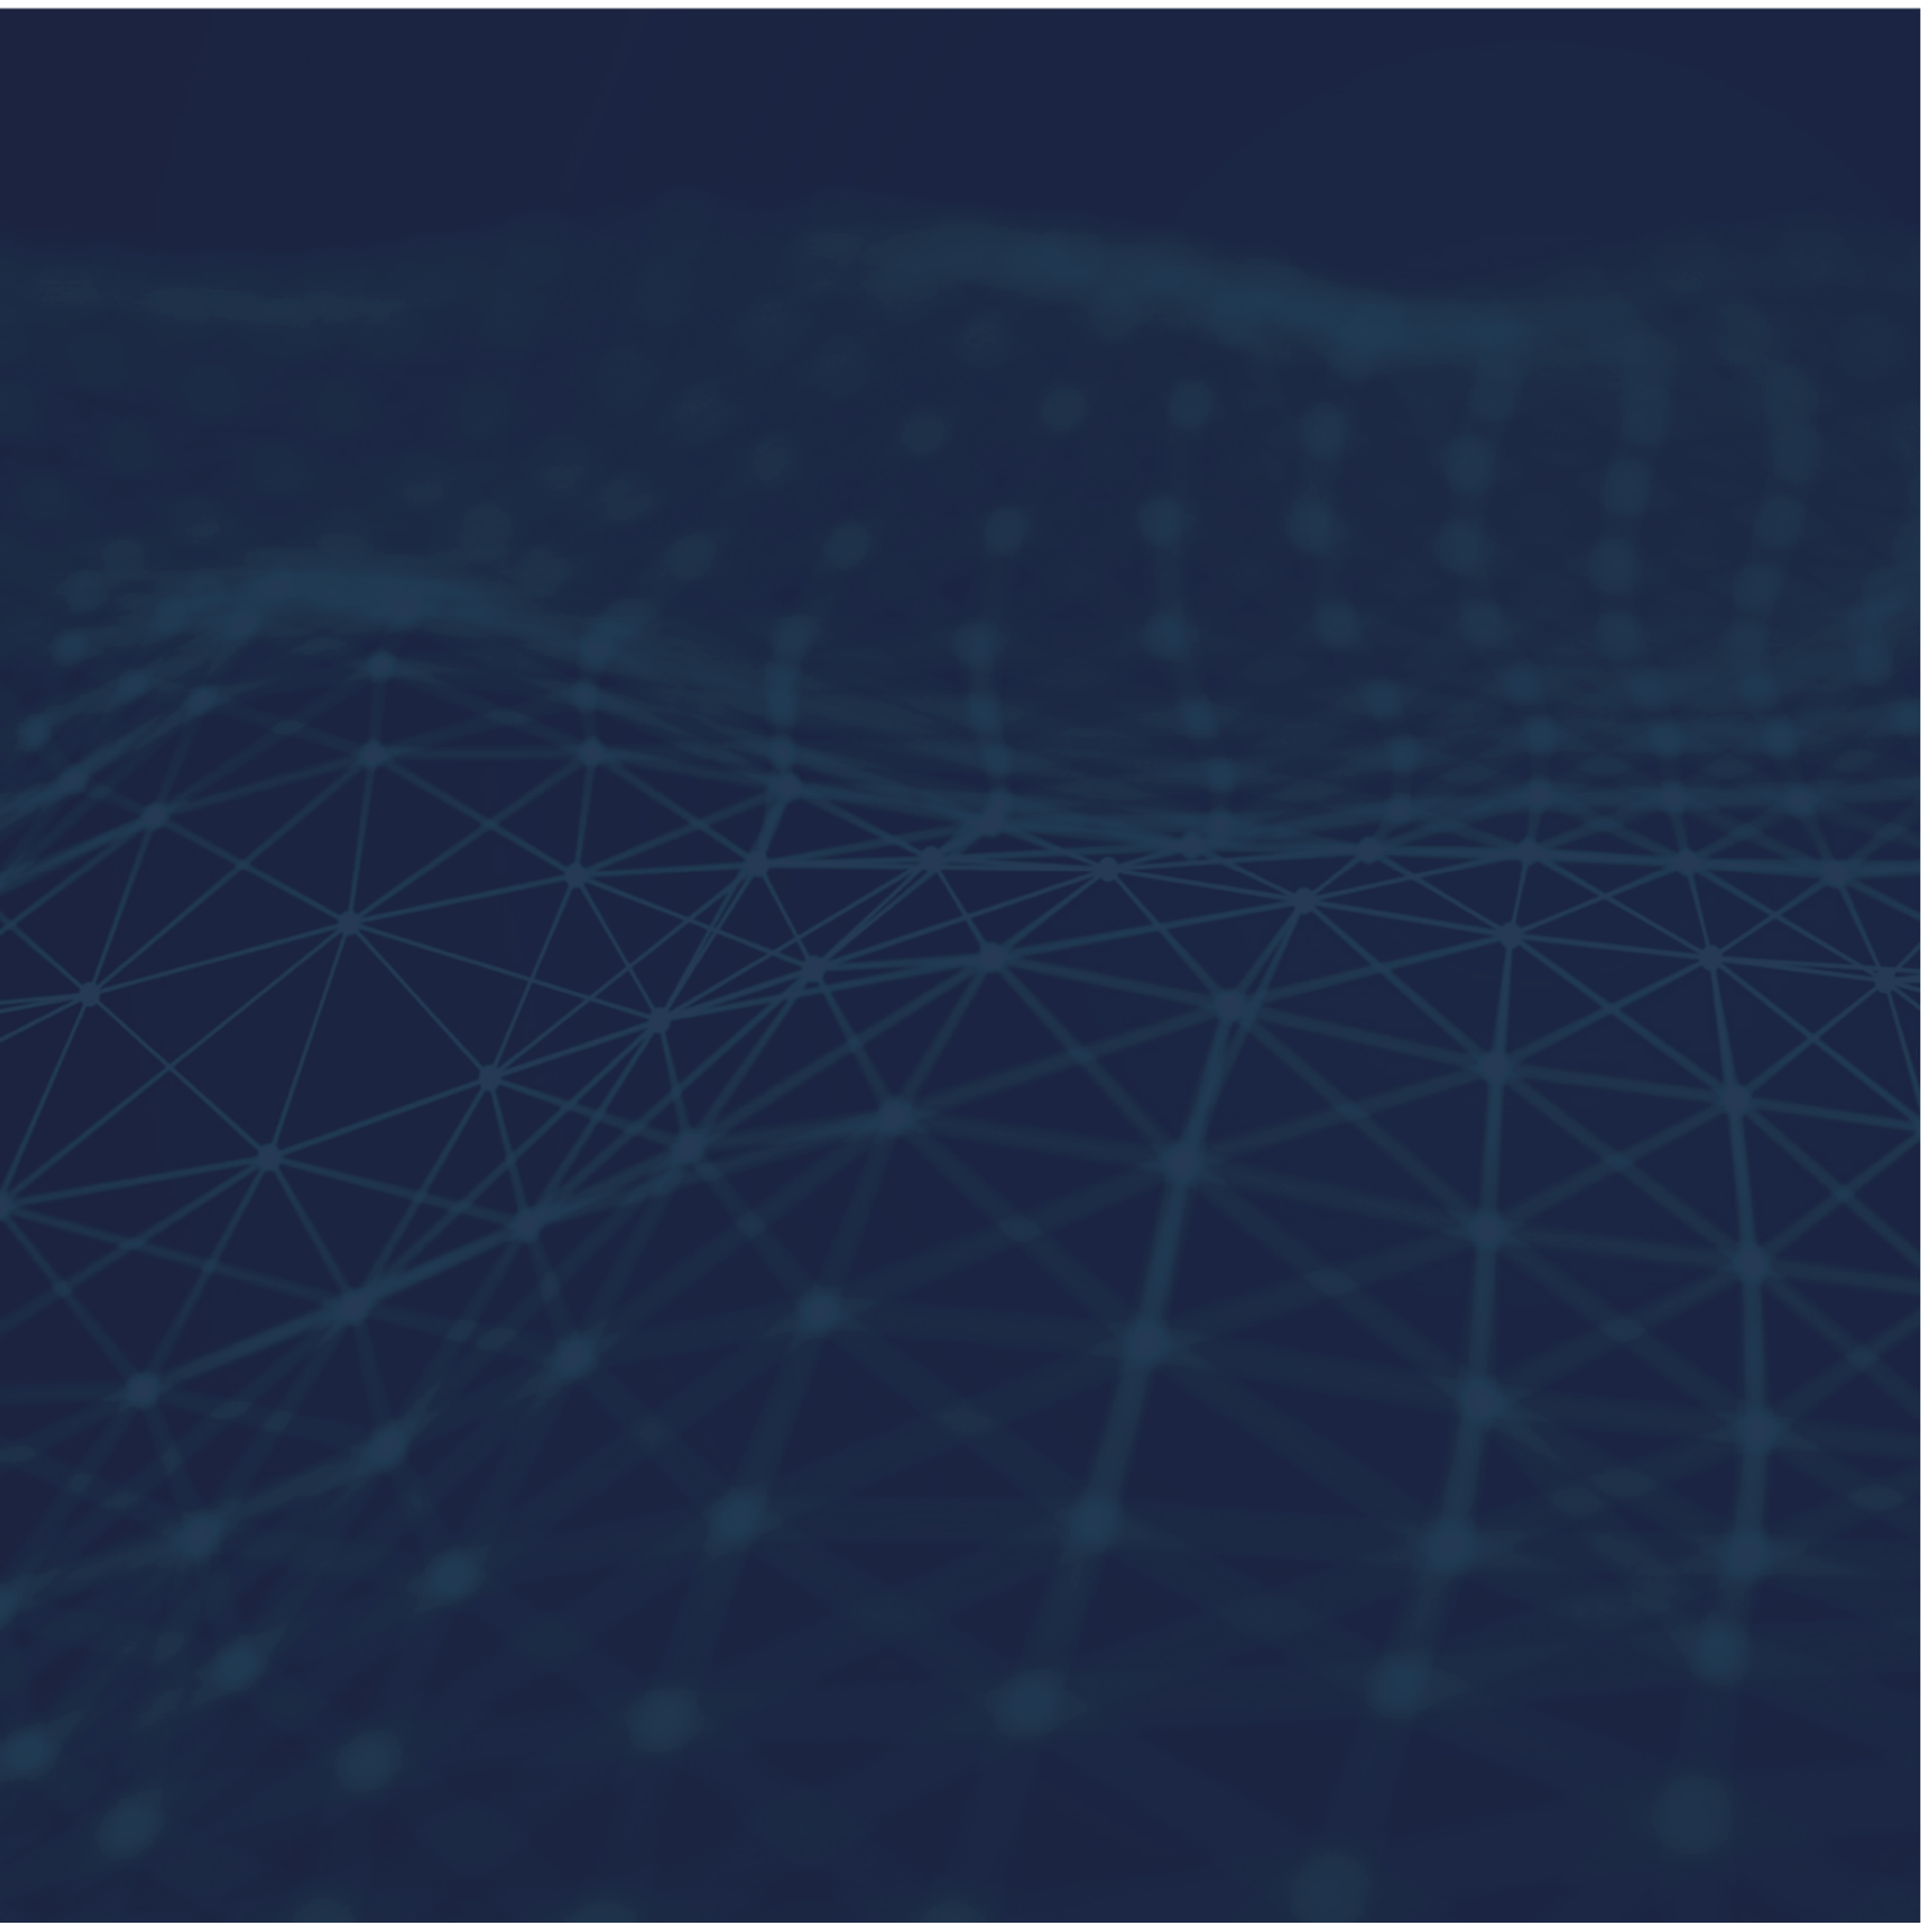
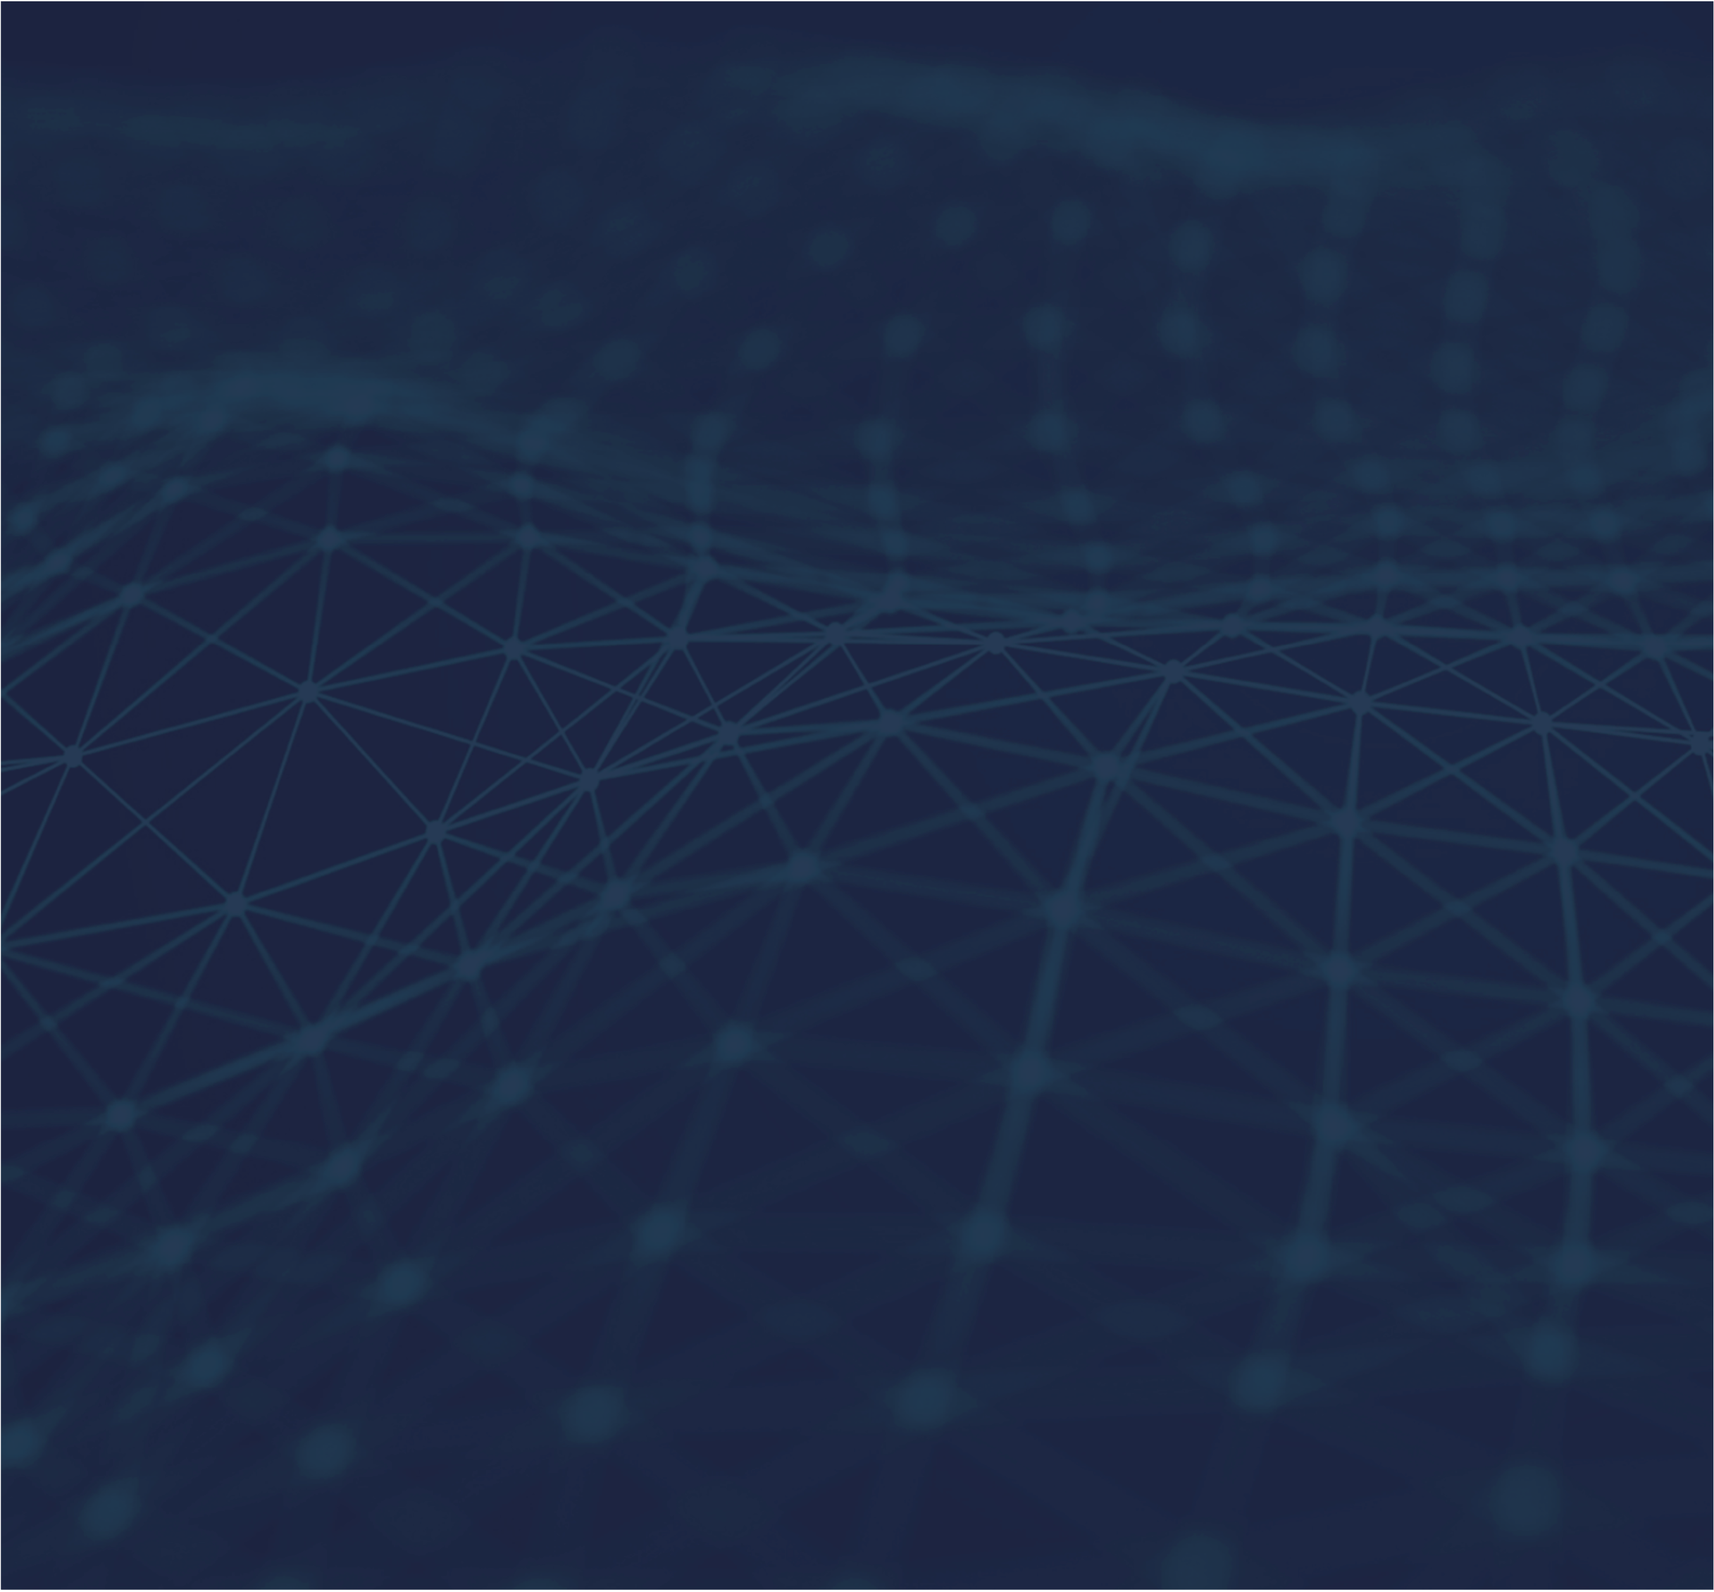
🖼 Store the supplied static wave artwork
Assisted-by: GPT 5.6 via Codex

Changed region(s): [[0.0, 0.0, 1.0, 1.0]]

diff --git a/BRAND.md b/BRAND.md
@@ -107,6 +107,8 @@ Keep these boundaries when adjusting existing components.
 - Reuse `background/` and `assets/waves.*` for the wave background rather than
   creating another animation. Respect reduced-motion preferences and keep motion
   behind readable content.
+- Use [the static wave artwork](assets/images/brand/grey-waves-wallpaper.png)
+  when a still background is needed. Keep the supplied image's colors and blur.
 
 ## Asset structure
 
